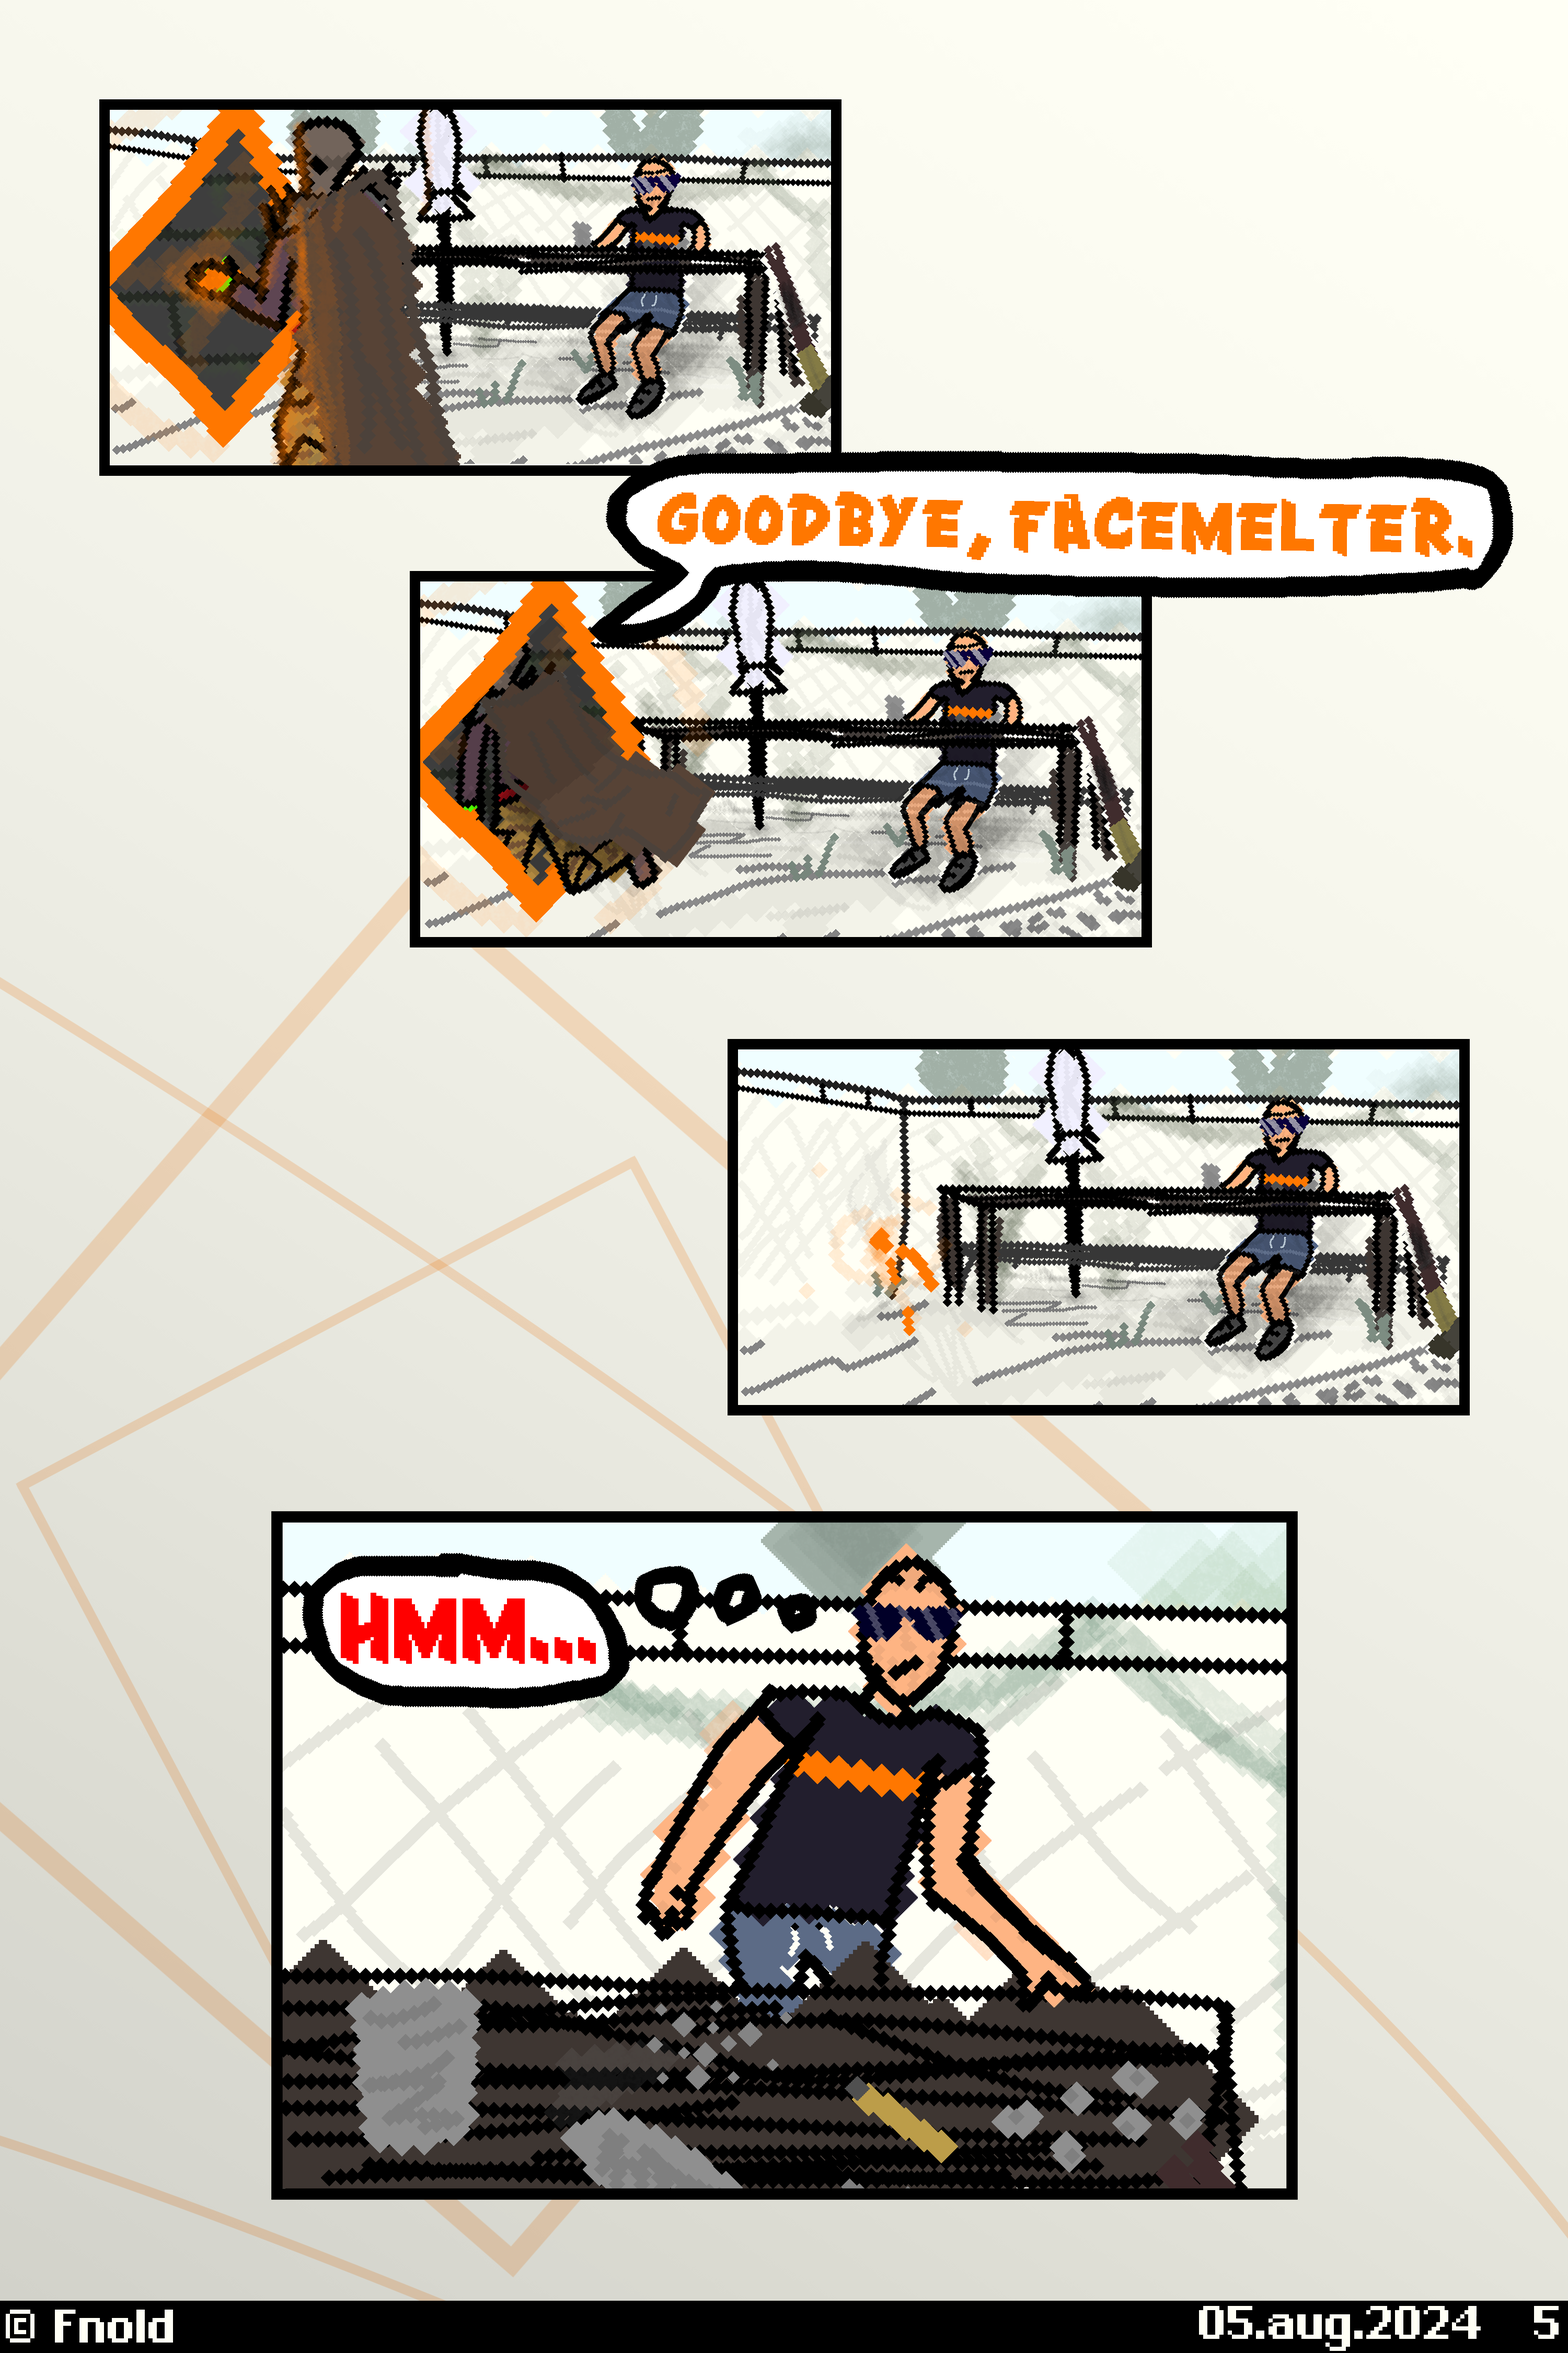
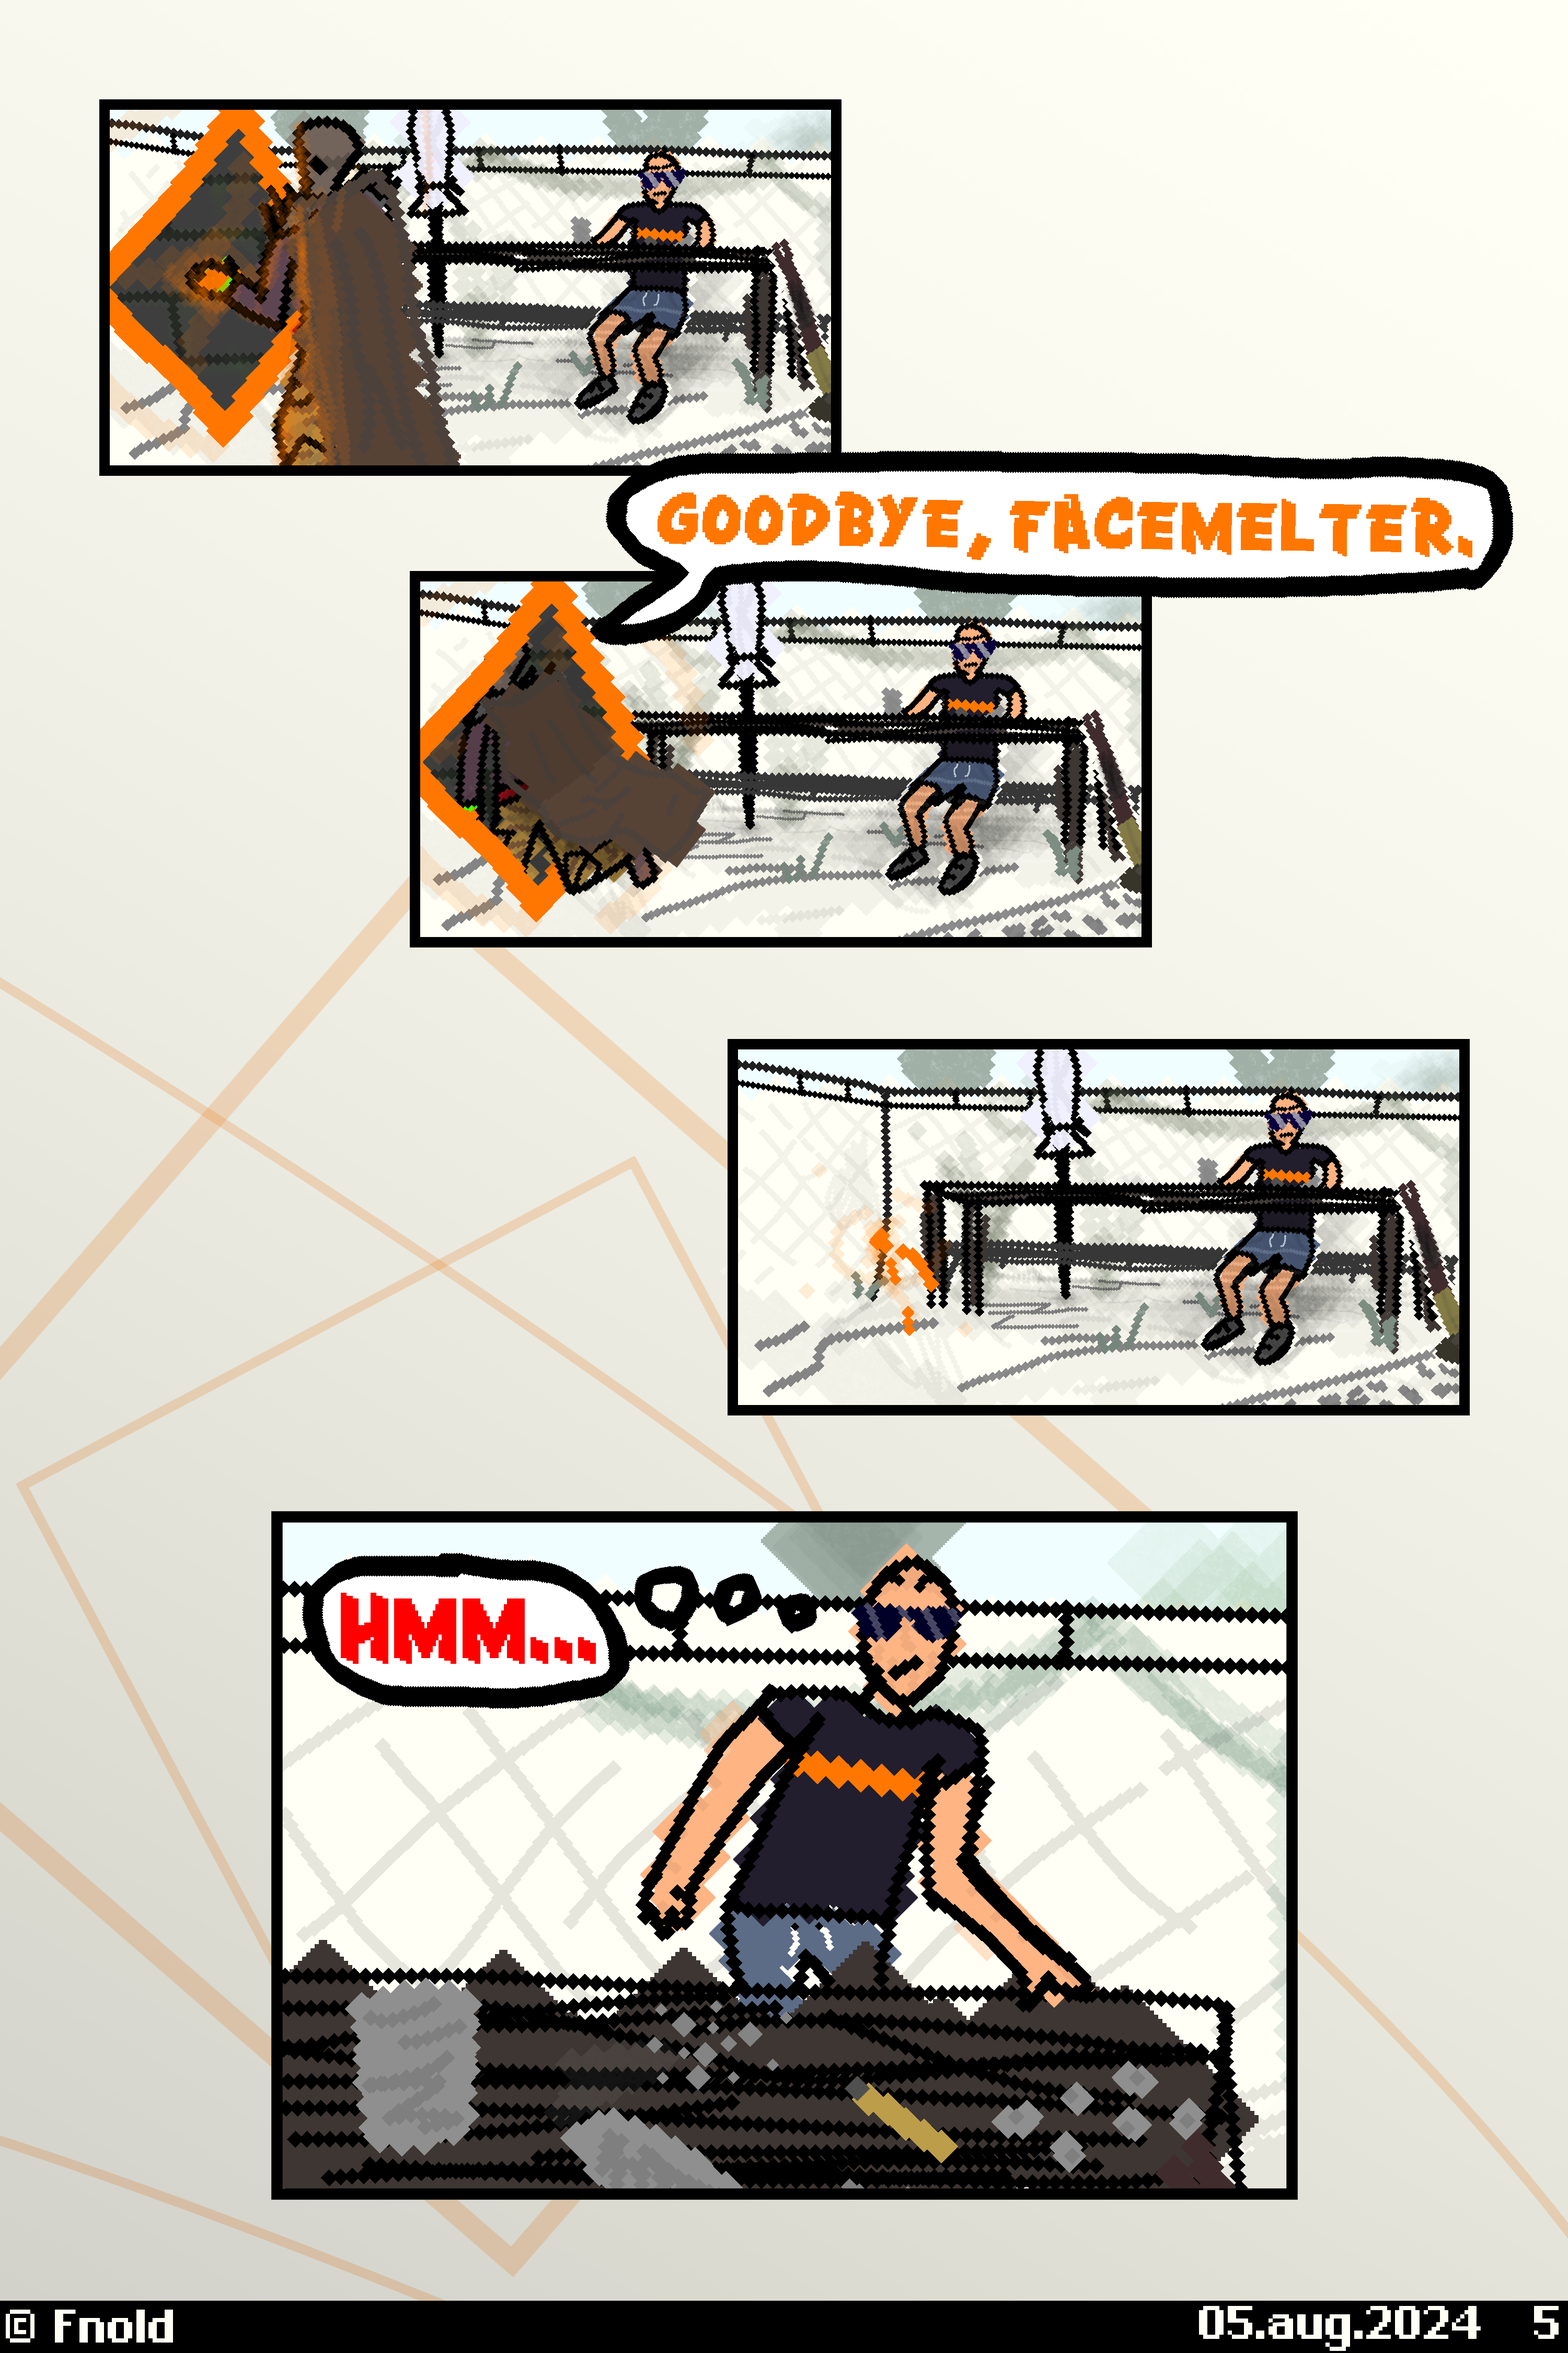
page 90 transcription fix, fix small pixel issues on comic page 5 image

diff --git a/comic/90.html b/comic/90.html
@@ -60,7 +60,7 @@
         <main>
             <div>
                 <h1>Page #90</h1>
-                <p><i>December 3nd 2024</i></p>
+                <p><i>December 3rd 2024</i></p>
                 <br>
                 <h2>Transcription</h2>
                 <p>
